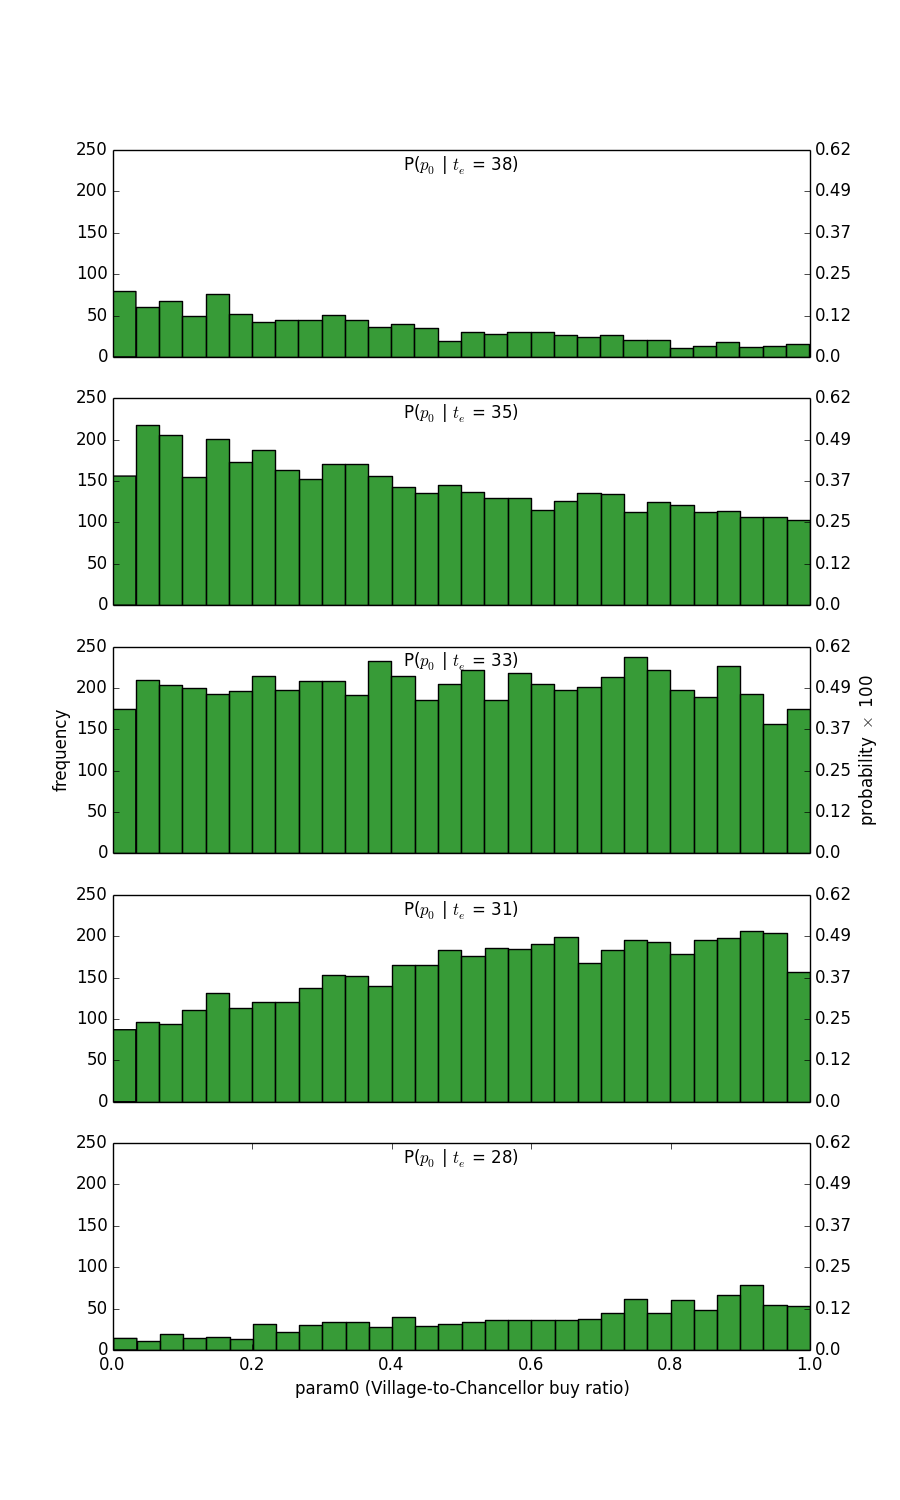
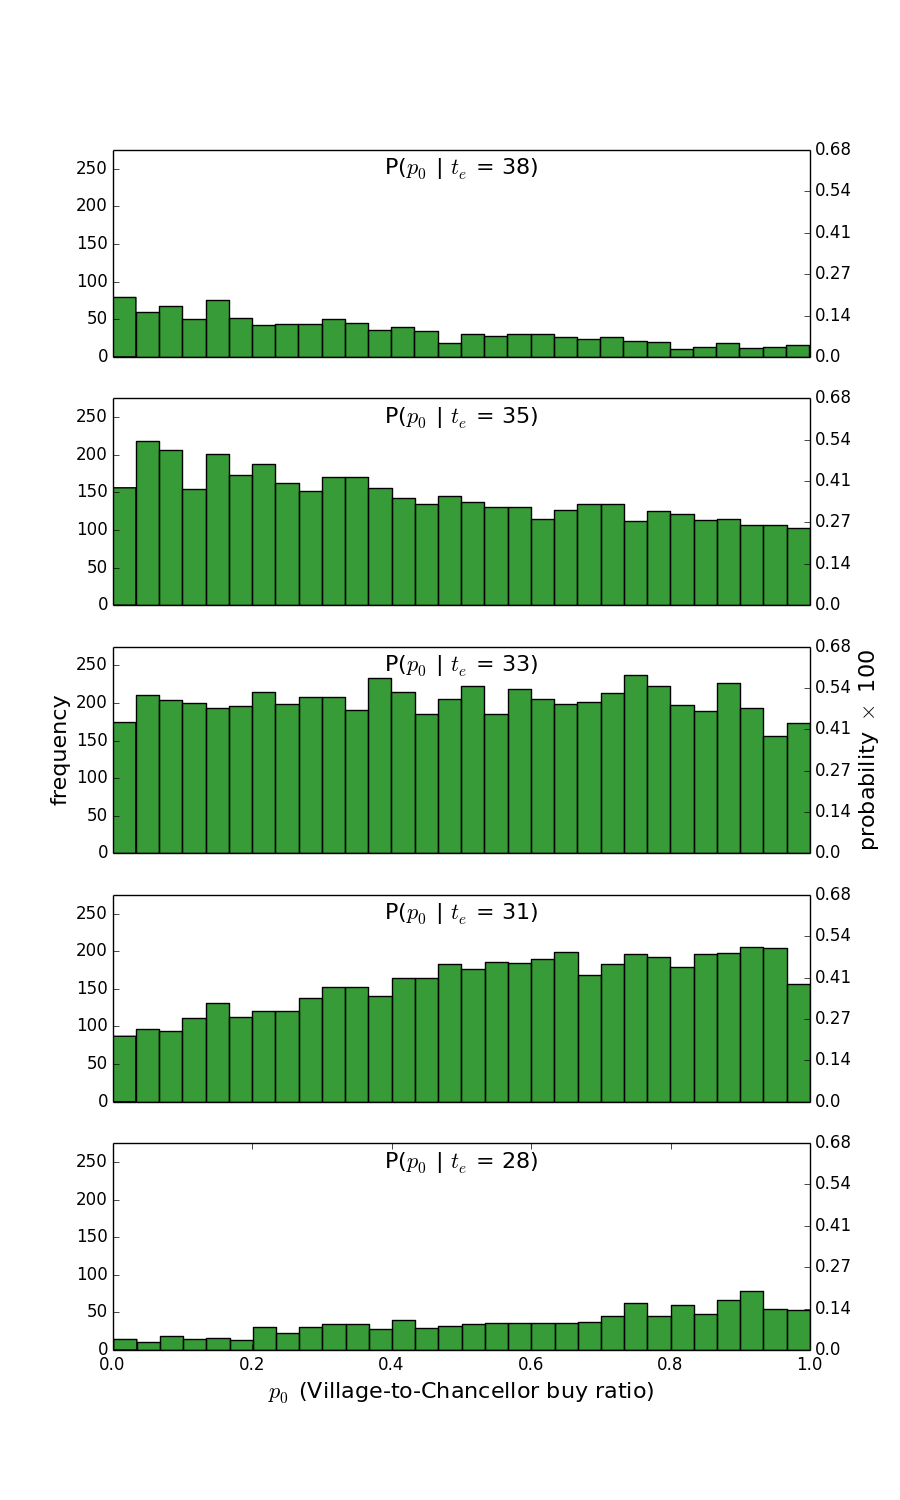
more appendix content, 3-row figure and description, deletion of unwritten / unimportant sections, additional sources, better plot formatting

diff --git a/proj/paper/appendix.tex b/proj/paper/appendix.tex
@@ -21,9 +21,11 @@ $5$ cards during her draw phase, starts with $1$ action during her action
 phase, starts with $1$ buy during her buy phase, and discards \verb|All|
 of her cards during her discard phase.
 For an in-depth analysis of the abstractions used to define these
-hyper-parameters see the DeckBuild \ref{DeckBuild} paper.
-In short, the above code is the quasiquoted \ref{haskell-quasiquoting}
+hyper-parameters see the DeckBuild language \cite{DeckBuild} paper.
+In short, the above code is the quasiquoted \cite{haskell-quasiquoting}
 output of the embedded DSL DeckBuild.
+
+\newpage
 
 \section{Complex Card Effects - Probabilistic Implications}
 \label{appendix:complexcard}
@@ -65,6 +67,8 @@ implication creates a probabilistic causal link from actions made by the player
 to the observable states of the game.
 The same probabilistic causal link exists for \hsk/VILLAGE/ and \hsk/CHANCELLOR/,
 the two cards discussed in detail in this paper.
+
+\newpage
 
 \section{Runtime System - State Format} \label{appendix:dominion-state-format}
 \begin{small}
@@ -117,4 +121,32 @@ heuristic models used in this work were designed in a manner which expects
 immutable data. This is true of probabilistic state models in general - many
 of the transformations done to the state are purely functional, making
 immutable semantics in the language useful.
+
+\newpage
+
+\section{Village and Chancellor} \label{app:dominion-card}
+
+\begin{multicols}{2}
+  \begin{flushright}
+    \includegraphics[width=.45\columnwidth]{../pres/village.jpg} \\
+    \copyright \cite{dominion}
+    \end{flushright}
+  \columnbreak
+  \begin{flushleft}
+    \includegraphics[width=.45\columnwidth]{../pres/chancellor.jpg} \\
+    \copyright \cite{dominion}
+    \end{flushleft}
+\end{multicols}
+
+The two cards above are the \hsk{VILLAGE} and \hsk{CHANCELLOR} cards referred to
+throughout this paper. In this case the model parameter $X$ is the \hsk{VILLAGE} and
+the model parameter $Y$ is the \hsk{CHANCELLOR}. This is an interesting first pair
+of cards to look at because the first buy in a game of Dominion involving these two
+cards usually requires the player to choose between buying one of these two cards.
+Additionally these cards allow us to make a number of simplifications in the first
+iteration of the greedy heuristic. Namely that the optimal play heuristic for a hand
+which can only contain these two action cards is to always play \hsk{VILLAGE} cards
+first followed by playing any remaining \hsk{CHANCELLOR} cards. This simple action
+heuristic is optimal because it maximizes the amount of money the player has during
+her subsequent buy phase.
 

diff --git a/proj/paper/dominion.tex b/proj/paper/dominion.tex
@@ -58,7 +58,8 @@ greedyAct g = do
     0 -> return Nothing
     _ -> if elem VILLAGE as
          then return $ Just VILLAGE
-         else return $ Just $ maximumBy (comparing cost) as
+         else return $ Just $
+              maximumBy (comparing cost) as
 \end{minted}
 
 In contrast to the play-heuristic, the buy-heuristic is a much more
@@ -208,7 +209,7 @@ methods as described earlier in Section \ref{sec:mcmc}.
 
 For the specific case of $X =$ \hsk{VILLAGE} and $Y =$ \hsk{CHANCELLOR},
 we see (Figure \ref{fig:rejection-sampling}) a relationship where as the
-number of turns $t_e'$ we condition on goes down...
+number of turns $t_e'$ we condition on goes down:
 
 \begin{itemize}
 \item the slope $m$ of the conditional distribution increases from negative to positive
@@ -240,7 +241,8 @@ as described on the right-hand side of the equation.
 % Results figures:
 
 \begin{figure}
-\includegraphics[width=.95\columnwidth]{../pres/village-chancellor-turn-dist.png}
+\includegraphics[width=1.0\columnwidth]{../gaussian-dist.png}
+%../pres/village-chancellor-turn-dist.png}
 \caption{\label{fig:turn-dist} Probability distribution over number of turns
 in a 2-player game of Dominion.
 Both players play a greedy strategy with model
@@ -252,6 +254,22 @@ This distributions is unconditioned, therefore only requiring sampling directly
 from the model (no inference).
 }\end{figure}
 
+\begin{figure}
+\includegraphics[width=1.0\columnwidth]{../3-row-dist.png}
+\caption{\label{fig:rejection-sampling} Inferred probability distributions
+using rejection sampling. On the x-axis we have the inferred value of the
+latent variable $p_0$. A value of $p_0 = 1.0$ indicates the greedy player
+buys a \hsk{VILLAGE} with probability $1.0$ and a \hsk{CHANCELLOR} with
+probability $0.0$ when it has $3$ money (the cost of both cards) in play.
+On the y-axis we have both frequency and probability. Note that the frequency
+is relative to a total sample size of $40,590$. Similarly the probability is
+normalized by the total sample size. As a result the probabilities in each
+individual distribution will not sum to $1$. The distributions shown are formed
+using $30$ bins each of size $1.0 / 30$. We show the inferred distribution only
+for $t_e \in$ \hsk{[38,35,33,31,28]} because these give a sufficient view of
+how the distribution over $p_0$ changes for typical values of $t_e$ from
+the gaussian in Figure \ref{fig:turn-dist}}
+\end{figure}
 
 % future work: less noisy / more samples / error bars on the bar charts
 %               -- validate the form of the distribution statistically

diff --git a/proj/paper/model.tex b/proj/paper/model.tex
@@ -1,12 +1,12 @@
 
 % Probabilistics models, observations, and queries
-\section{Model-Observe-Query} \label{sec:moq}
+%\section{Model-Observe-Query} \label{sec:moq}
 % Talk about how, in general, game heuristics can be expressively
 % described using probablistic models
 
-\subsection{Example Game}
+%\subsection{Example Game}
 
-\subsection{Markov Chain Monte-Carlo} \label{sec:mcmc}
+\subsection{Probabilistic Techniques: Markov Chain Monte-Carlo} \label{sec:mcmc}
 % talk about how we use rejection sampling when performing inference
 % on probabilistic distributions, and why this is sufficient for
 % our purposes >>>>v
@@ -23,14 +23,21 @@
 % sampling successful because it's generally easy to find a conditionally true
 % point in the state space regardless of the prior you sample from.
 
+In this work we use rejection sampling to infer distributions over the
+latent variables in our model.
 In the future we would like to further study instances in which rejection
-sampling is insufficient due to high rejection rates. High rejection rates
+sampling is insufficient due to high rejection rates. Section
+\ref{sec:future} goes into more detail about future work likely requiring
+more clever inference techniques.
+
+High rejection rates
 in the case of deck building games like Dominion will most likely be the
 result of inference questions involving very restrictive conditioning.
 While it is possible that a high rejection rate can be the result of
 a non-diffuse true distribution, this is not indicative of an interesting
 deck of cards. For example you could design a card which turns
-of shuffling in the game resulting in a pathologically non-diffuse 
+of shuffling in the game resulting in a pathologically non-diffuse distribution.
+This however is not the kind of card game designers wish to study.
 
 %conditional distributions we are
 % currently trying to sample from 

diff --git a/proj/plotPaper.py b/proj/plotPaper.py
@@ -7,7 +7,7 @@ import numpy as np
 
 data = pickle.load(open("data/data.pkl",'r'))
 param0,turn = transpose(data)
-ymax2 = 250.0 / len(data)
+ymax2 = 275.0 / len(data)
 
 def to_percentage(y,pos):
   ret = round(y * 100.0, 2)
@@ -31,27 +31,30 @@ for (t,i,ax1) in zip(idx,range(len(idx)),ax_array):
   ax2.yaxis.set_major_formatter(plt.FuncFormatter(to_percentage))
   #ax2.set_yticks([0,.02,.04,.06,.08])
   #ax2.set_ylim([0,.08])
-  ax2.set_yticks(np.linspace(0.0, ymax2, 6)) #[0,.02,.04,.06,.08])
-  ax2.set_ylim([0, ymax2])
 
   hist_data = param0[where(turn == t)[0]]
   weights = np.ones_like(hist_data) #/ len(hist_data)
+  
+  print (275.0/len(hist_data)),ymax2,len(hist_data),len(data)
+  ax2.set_yticks(np.linspace(0.0, ymax2, 6)) #[0,.02,.04,.06,.08])
+  ax2.set_ylim([0, ymax2])
 
 #  ax2.hist(hist_data, bins=30, color=c1, weights=weights/len(hist_data))
 
   ax1.hist(hist_data, bins=30, color=c2)
   ax1.set_xlim(0.0, 1.0)
-  ax1.set_ylim(0, 250)
+  ax1.set_ylim(0, 275)
   #ax1.set_yticks([
   #ax2.set_title("P($p_0$ | $t_e$ = %d)"%(t,))
-  ax1.text(.5, .9, "P($p_0$ | $t_e$ = %d)"%(t,),
+  ax1.text(.5, .88, "P($p_0$ | $t_e$ = %d)"%(t,),
            horizontalalignment='center',
-           transform=ax1.transAxes)
-  if i == 2: ax1.set_ylabel("frequency")
-  if i == 2: ax2.set_ylabel("probability $\\times$  100")
+           transform=ax1.transAxes,
+           fontsize=16)
+  if i == 2: ax1.set_ylabel("frequency", fontsize=16)
+  if i == 2: ax2.set_ylabel("probability $\\times$  100", fontsize=16)
 
   if i + 1 < len(idx): ax1.get_xaxis().set_visible(False)
 
-ax1.set_xlabel("param0 (Village-to-Chancellor buy ratio)")
+ax1.set_xlabel("$p_0$ (Village-to-Chancellor buy ratio)",fontsize=16)
 plt.savefig("3-row-dist.png")
 

diff --git a/proj/paper/intro.tex b/proj/paper/intro.tex
@@ -13,11 +13,11 @@ Languages (PPLs).
 In this work we present an argument favouring the use of PPLs
 for describing game heuristics and reasoning about their performance.
 
-We now continue in Section \ref{sec:goals} with an overview of the goals of this
-work as they relate to PPL design. This is followed in Section \ref{sec:moq}
-with a discussion of how the probabilistic observe-query model of computation
-is applicable to certain questions game designers and players might ask of a
-game heuristic. This work then looks at a particular game with sufficiently
+%We now continue in Section \ref{sec:moq} with a discussion of how the probabilistic
+%observe-query model of computation is applicable to certain questions game designers
+%and players might ask of a
+%game heuristic.
+We now continue by studying a particular game with sufficiently
 complicated probabilistic game mechanics, Dominion, discussed in Section
 \ref{sec:dom}.
 The complexity of Dominion and our attempts to model and make queries gives
@@ -33,7 +33,7 @@ game heuristics.
 %reformulated in terms of the model-observe-query pattern used by existing
 %PPLs.
 
-\section{Goals} \label{sec:goals}
+%\section{Goals} \label{sec:goals}
 % goals of this work in relation to PPL design
 
 %Existing probabilistic

diff --git a/proj/paper/conc.tex b/proj/paper/conc.tex
@@ -134,7 +134,7 @@ variable. The Haskell type signature might look something like:
 \end{minted}
 
 Such abstractions would have allowed
-us to express our inference question (Question \ref{q;inference}) as an
+us to express our inference question (Question 2\ignore{\ref{q:inference}}) as an
 unambigous Haskell function. In particular the variable $p_0$ is used in
 one context as a known parameter to the model, and in another context as
 the latent variable we would like to infer. While our inference question

diff --git a/proj/plotMe.py b/proj/plotMe.py
@@ -25,10 +25,17 @@ def plot_turn(t):
   savefig("data/village-chancellor-%02dturns.png" % (t,))
   close()
 
-"""
+hist(turn, bins=23, color='g')
+xlim(25,43)
+ylim(0,6500)
+xlabel("# turns to reach end of game ($t_e$)")
+ylabel("frequency")
+savefig("gaussian-dist.png")
+
 for t in range(25, 45 + 1):
   plot_turn(t)
 
+"""
 idx = [38, 33, 28]
 for t in idx:
   hist_data = param0[where(turn == t)[0]]

diff --git a/proj/paper/paper.tex b/proj/paper/paper.tex
@@ -46,8 +46,8 @@
 }
 
 \maketitle
-\begin{abstract}
-\end{abstract}
+%\begin{abstract}
+%\end{abstract}
 
 % Introduction
 \input{intro.tex}
